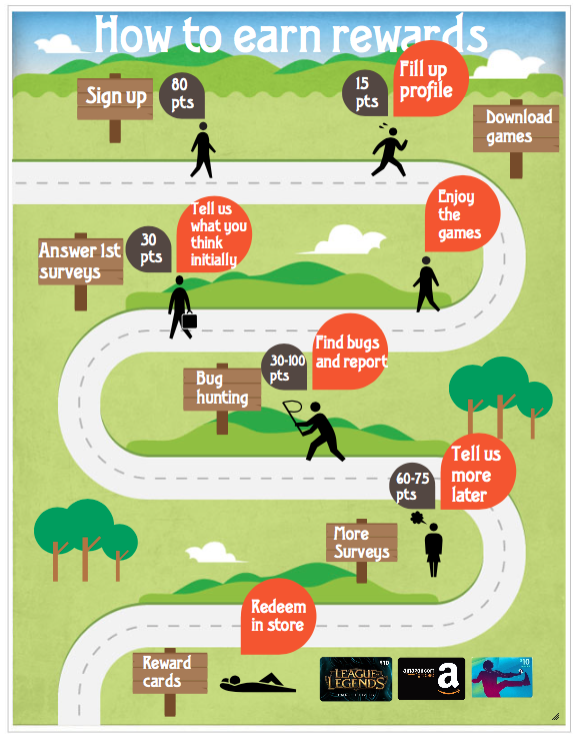
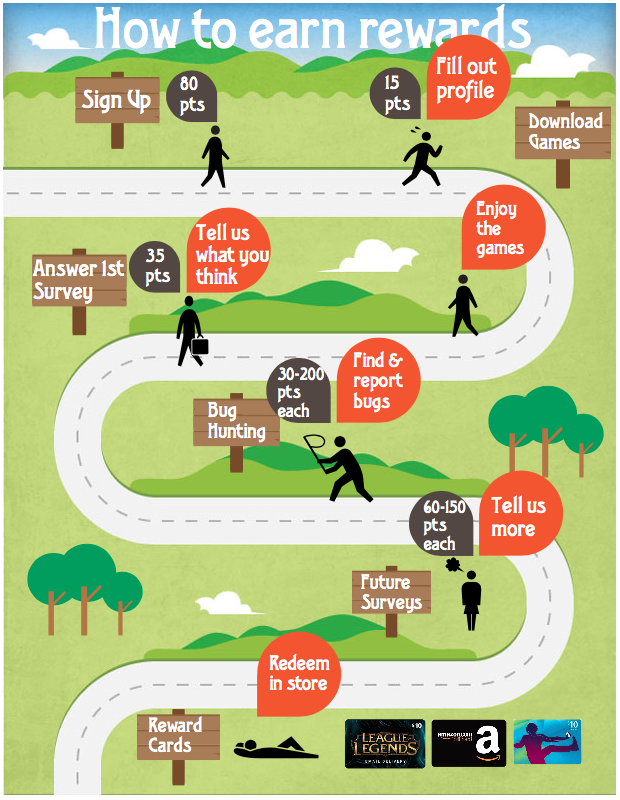
Updated poster

diff --git a/app/assets/stylesheets/welcome.scss b/app/assets/stylesheets/welcome.scss
@@ -24,6 +24,12 @@
 		position: relative;
 		display: inline-block;
 
+		img.poster {
+			width: 576px;
+			height: 730px;
+		}
+
+
 		a {
 			position: absolute; 
 			height: 100px;
